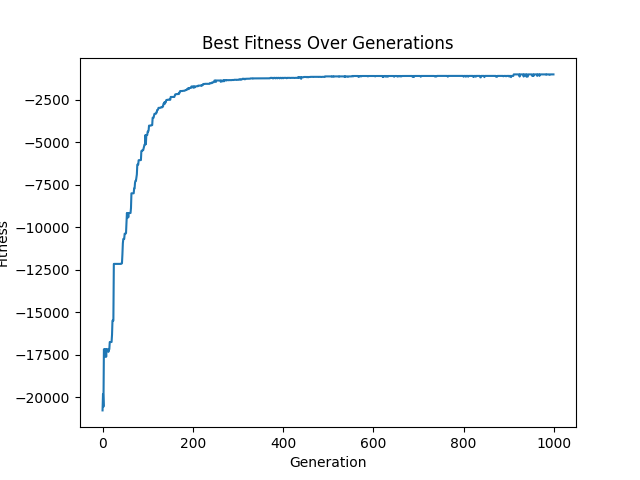
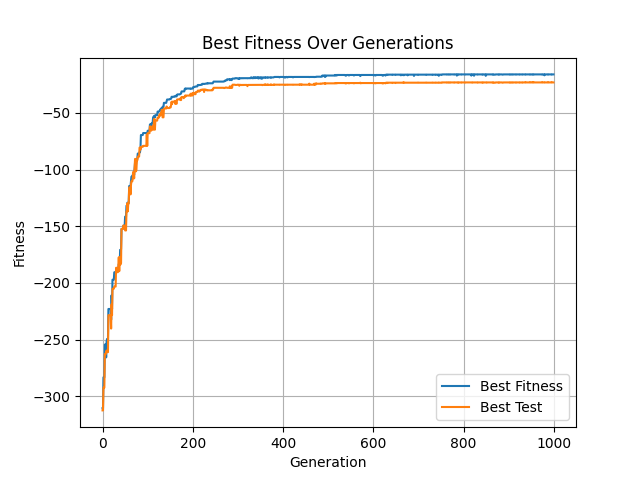
Optimize MGA and MLP for MNIST: adddeme_size parameter, scaling, reduced generations to 500, and test tracking

diff --git a/MNIST.py b/MNIST.py
@@ -52,39 +52,52 @@ mutation_std = 1
 
 # Initialize MGA
 population_size = 100
-num_generations = 1000
+num_generations = 500
 mutation_rate = 0 # Defaults to 1/num_parameters
 BATCH_SIZE = 1000
 mga = MGA(population_size, num_generations, mutation_rate)
 
 # Initialize population
 mga.initialize_population(shapes, activation, output_activation, precision, bias_std, mutation_std, x_train, y_train, torch.nn.CrossEntropyLoss())
-
+best_tests = []
 # Evolution loop
 for generation in range(num_generations):
     print(f"Generation {generation}")
     best_fitness = float('-inf')
+    best_test = float('-inf')
     for i in range(population_size):
         # Tournament selection and evolution with random batch
         batch_indices = torch.randperm(len(x_train))[:BATCH_SIZE]
-        fitness = mga.tournament(x_train[batch_indices], y_train[batch_indices], torch.nn.CrossEntropyLoss(), mutation_rate)
+        fitness, t = mga.tournament(x_train[batch_indices], y_train[batch_indices], torch.nn.CrossEntropyLoss(), mutation_rate, test=False)
         if fitness > best_fitness:
             best_fitness = fitness
+            best_test = t
+    best_tests += [best_test]
 
     mga.best_fitness_history.append(best_fitness)
     print(f"Best fitness: {best_fitness}")
+    print(f"Best test: {best_test}")
 
 # Evaluate on test set
 best_individual = max(mga.population, key=lambda x: x.fitness)
-test_loss = torch.nn.CrossEntropyLoss()(best_individual(x_test), y_test).item()
-test_accuracy = (best_individual(x_test).argmax(dim=1) == y_test.argmax(dim=1)).float().mean().item()
+#test_loss = torch.nn.CrossEntropyLoss()(best_individual(x_test), y_test).item()
+#test_accuracy = (best_individual(x_test).argmax(dim=1) == y_test.argmax(dim=1)).float().mean().item()
+
+train_loss = torch.nn.CrossEntropyLoss()(best_individual(x_train), y_train).item()
+train_accuracy = (best_individual(x_train).argmax(dim=1) == y_train.argmax(dim=1)).float().mean().item()
 
 
 print(f"Test loss of best individual: {test_loss}")
 print(f"Test accuracy of best individual: {test_accuracy * 100:.2f}%")
+print(f"Train loss of best individual: {train_loss}")
+print(f"Train accuracy of best individual: {train_accuracy * 100:.2f}%")
 
 # Plot fitness history
+
 plt.plot(torch.Tensor(mga.best_fitness_history).detach().cpu().numpy())
+plt.plot(torch.Tensor(best_tests).detach().cpu().numpy())
+plt.legend(["Best Fitness", "Best Test"])
+plt.grid(True)
 plt.title("Best Fitness Over Generations")
 plt.xlabel("Generation")
 plt.ylabel("Fitness")

diff --git a/mga.py b/mga.py
@@ -8,10 +8,11 @@ import torch
 from MLP import MLP
 
 class MGA:
-    def __init__(self, population_size, num_generations, mutation_rate):
+    def __init__(self, population_size, num_generations, mutation_rate, deme_size=None):
         self.population_size = population_size
         self.num_generations = num_generations
         self.mutation_rate = mutation_rate
+        self.deme_size = deme_size if deme_size is not None else self.population_size // 8
         self.population = []
         self.generation = 0
         self.best_individual = None
@@ -28,9 +29,10 @@ class MGA:
             self.population.append(model)
             self.population[-1].evaluate(x, y, f)
 
-    def tournament(self, x, y, f, mutation_rate):
+    def tournament(self, x, y, f, mutation_rate, test=False):
 
-        A, B = torch.arange(self.population_size)[torch.randperm(self.population_size)[:2]]
+        A = torch.randint(0, self.population_size, (1,))[0].item()
+        B = (A + 1 + torch.randint(0, self.deme_size, (1,))[0].item()) % self.population_size
         if self.population[A].fitness >= self.population[B].fitness:
             W = A
             L = B
@@ -41,4 +43,7 @@ class MGA:
         self.population[L].load_state_dict(self.population[L].crossover(self.population[W].state_dict()))
         self.population[L].load_state_dict(self.population[L].mutate(mutation_rate))
         self.population[L].evaluate(x, y, f)
-        return self.population[W].fitness
+        t = None
+        if test:
+            t = -f(self.population[W].forward(test[0]), test[1]).sum()
+        return self.population[W].fitness, t

diff --git a/MLP.py b/MLP.py
@@ -8,6 +8,7 @@ import torch.nn as nn
 import torch.nn.functional as F
 import numpy as np
 import precisions as P
+import math
 
 
 '''
@@ -17,7 +18,7 @@ as it is used for genetic algorithm optimization.
 '''
 class MLP(nn.Module):
     def __init__(self, shapes, activation=F.relu, output_activation=None, precision='f32',
-                    bias_std=1, mutation_std=1):
+                    bias_std=1, mutation_std=1, scale=True):
         
         super(MLP, self).__init__()
         self.shapes = shapes
@@ -29,6 +30,7 @@ class MLP(nn.Module):
         self.weights = nn.ParameterList()
         self.biases = nn.ParameterList()
         self.fitness = float('-inf')
+        self.scale = True
 
         # Ensure all tensors are created on the correct device
         device = torch.device('cuda' if torch.cuda.is_available() else 'cpu')
@@ -52,7 +54,12 @@ class MLP(nn.Module):
             x = x.to(device)
 
         for i in range(len(self.weights)):
-            x = torch.matmul(x, self.precision.cast_from(self.weights[i]).T) + self.bias_precision.cast_from(self.biases[i])
+            x = torch.matmul(x, self.precision.cast_from(self.weights[i]).T)
+            if (self.scale):
+                x = x/math.sqrt(2*x.shape[1])
+            
+            x = x + self.bias_precision.cast_from(self.biases[i])
+            
             if (i < len(self.weights) - 1):
                 x = self.activation(x)
         return x

diff --git a/precisions.py b/precisions.py
@@ -90,6 +90,7 @@ class i2:
     def cast_from(self, x):
         return x.to(torch.float32)
 
+
     # Assumes x is only parameters that you want mutated
     # Performs a gaussian mutation with default std 1 which is
     # then rounded to nearest integer before clamping and casting to int8
